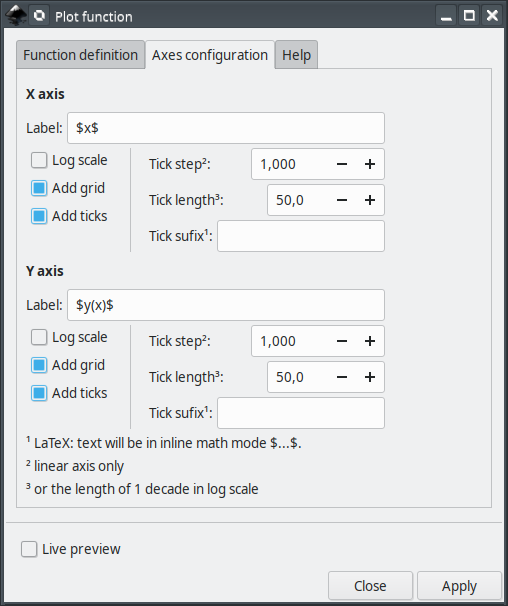
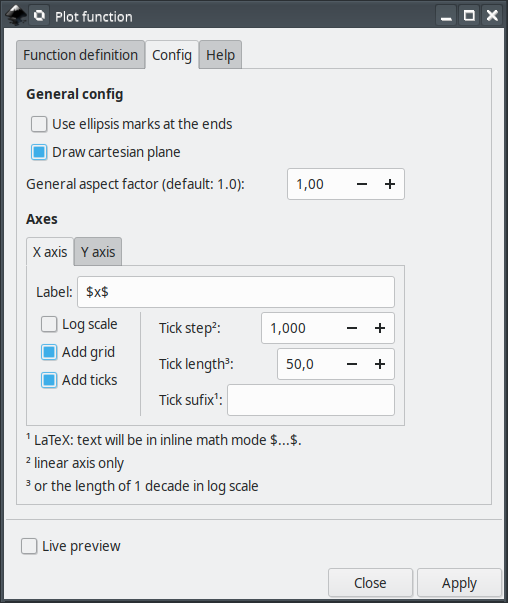
changes to the GUI

diff --git a/latest/cartesianPlotFunction2D.py b/latest/cartesianPlotFunction2D.py
@@ -62,6 +62,7 @@ class PlotFunction(inkBase.inkscapeMadeEasy):
         inkBase.inkscapeMadeEasy.__init__(self)
 
         self.arg_parser.add_argument("--tab", type=str, dest="tab", default="object")
+        self.arg_parser.add_argument("--subtab_axis", type=str, dest="subtab_axis", default="object")
 
         self.arg_parser.add_argument("--function", type=str, dest="function", default='pow(x,2)')
         self.arg_parser.add_argument("--nPoints", type=int, dest="nPoints", default=20)

diff --git a/README.md b/README.md
@@ -112,7 +112,7 @@ Installation procedures for latest and older versions are described below.
 
 The extension can be found under `extensions > fsmMLK > Plot 2D > Cartesian` menu.
 
-This extension is presented in two tabs, **Function Definition** and  **Axes configuration**. The first is used to define the function and input/output ranges. The second is used to configure the axes.
+This extension is presented in two tabs, **Function Definition** and  **Config**. The first is used to define the function and input/output ranges. The second is used to configure the axes.
 
 ## Function Definition tab
 
@@ -126,25 +126,12 @@ Here you can define your function and set both the input and output ranges.
 
 > Important: The extension will execute the function as a piece of python code. **DO NOT copy paste functions from untrusted sources!**
 
-### General config section
 
 **Number of points:** Number of points where the function will be evaluated within the limits. See image below.
 
   - *X axis in linear scale*: the points will be uniformly distributed within the limits.
   - *X axis in log scale*: the points will be logarithmically distributed within the limits (same number of points per decade)
 
-
-**Use ellipsis marks at the ends:** Use ellipsis marks at the end of the plots to indicate continuation
-
-<img src="docs/images/ellipsis.png" width="250px"/>
-
-**Draw Cartesian plane:** Toggle to generate the cartesian axes together with the plot.
-
-<img src="docs/images/drawAxes.png" width="550px"/>
-
-**General aspect factor:** General aspect ratio between line widths and text height. I designed this extension to have an overall aspect ratio that "looks nice". It is a function of X and Y tick lengths. With this control you can scale both line width and text height. The defauls value is 1.0.
-
-<img src="docs/images/generalAspectRatio.png" width="600px"/>
 
 
 ### Input/Output range sections
@@ -171,10 +158,32 @@ The extension will inform if these limits are invalid.
 
 **Y limits:** (linear scale only) Set the range of the dependent variable (Y axis). The extension will inform if these limits are invalid. These limits are used to truncate the solution, that is, if `f(x)` does not lie within Ymin and Ymax, the solution will be clipped at these values. See image bellow.
 
-## Axes Configuration tab
+## Config tab
 
-This tab has two sections, one for each axis. They affect the axes the same way.
+This tab has two sections. The first contains general properties of the plot and the second controls the axes.
+
 <img src="docs/images/AxesConfig_Tab.png" width="450px"/>
+
+
+### General config section
+
+**Use ellipsis marks at the ends:** Use ellipsis marks at the end of the plots to indicate continuation
+
+<img src="docs/images/ellipsis.png" width="250px"/>
+
+**Draw Cartesian plane:** Toggle to generate the cartesian axes together with the plot.
+
+<img src="docs/images/drawAxes.png" width="550px"/>
+
+**General aspect factor:** General aspect ratio between line widths and text height. I designed this extension to have an overall aspect ratio that "looks nice". It is a function of X and Y tick lengths. With this control you can scale both line width and text height. The defauls value is 1.0.
+
+<img src="docs/images/generalAspectRatio.png" width="600px"/>
+
+### Axes section
+
+The parameters in this section controls X and Y axes. They act on the axes the same way.
+
+
 
 **Label:** label of the axes. If LaTeX support is activated and you want to write in mathematical environment, enclose your text with $...$.
 
